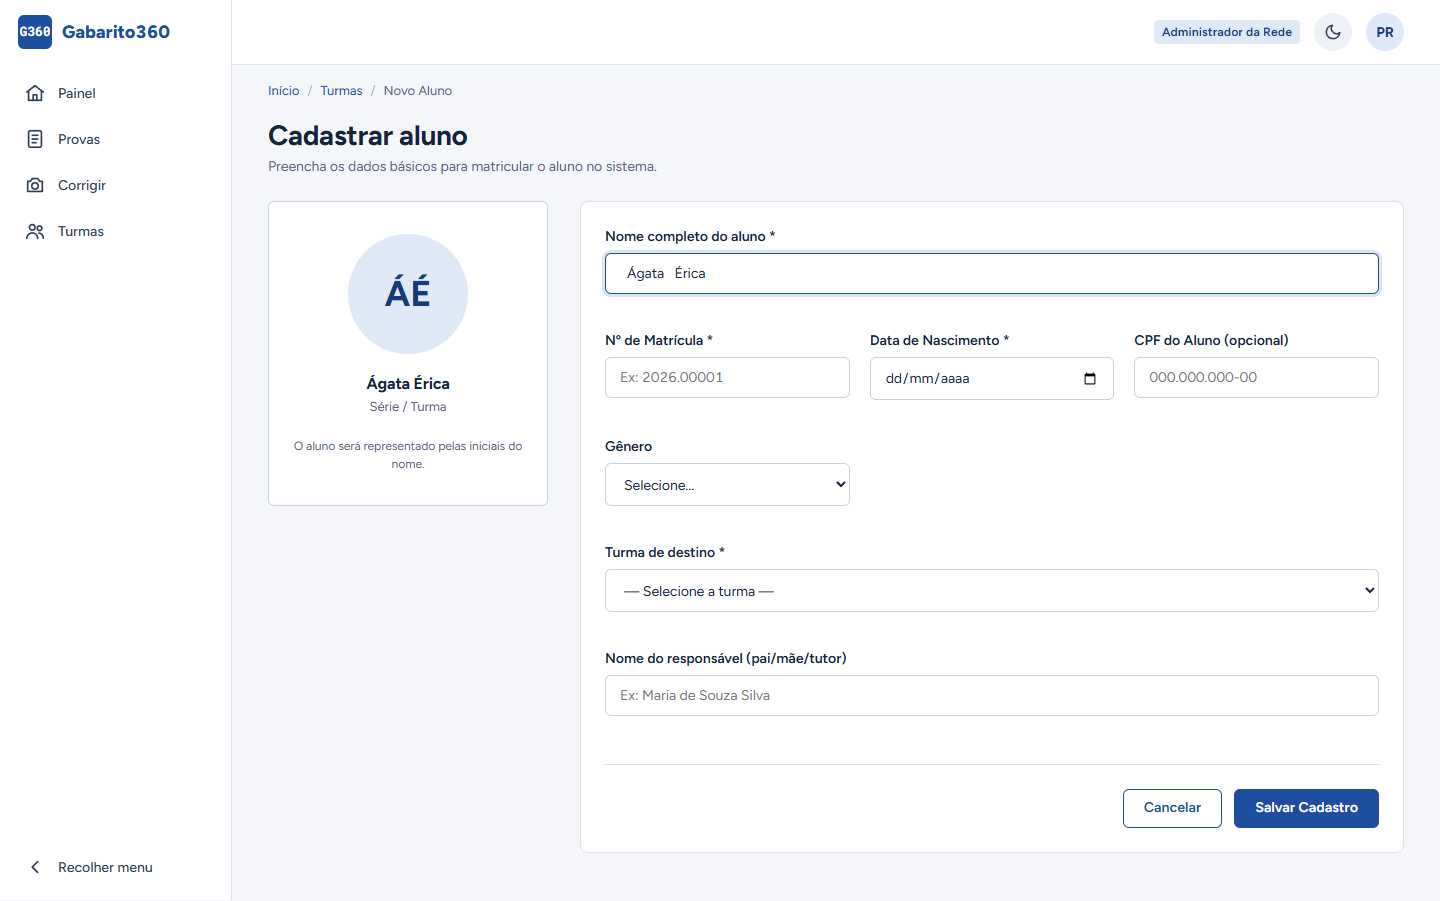
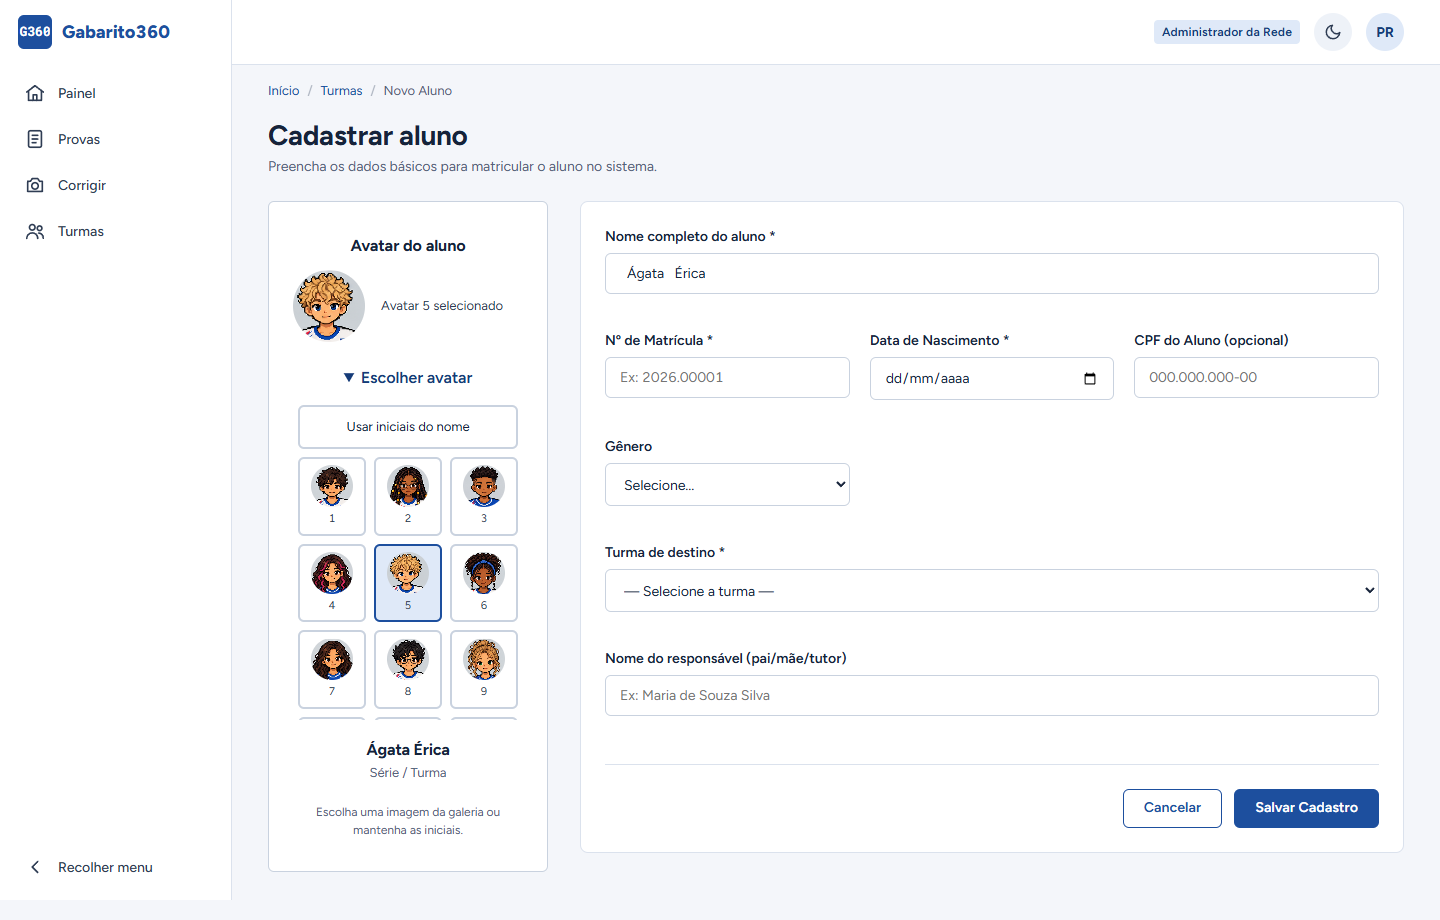
feat: permite escolher entre 36 avatares de alunos

diff --git a/apps/web/public/css/app.css b/apps/web/public/css/app.css
@@ -1227,3 +1227,19 @@ html[data-theme="dark"] .user-menu-links hr { border-top-color: var(--border); }
 .avatar-aluno--verde { background:var(--atencao-light);color:var(--atencao); }
 .avatar-aluno--roxo { background:var(--purple-light);color:var(--purple-fg); }
 .avatar-aluno--neutro { background:var(--surface-2);color:var(--fg-2); }
+
+/* Galeria de personagens aprovada: catálogo fixo, sem upload. */
+.avatar-aluno--imagem { background-image:url('../images/avatares/estudantes-v1.png'); background-size:650% 650%; background-position:calc(0.76% + var(--avatar-x) * 0.9848) calc(0.76% + var(--avatar-y) * 0.9848); image-rendering:pixelated; overflow:hidden; }
+.avatar-aluno--imagem .avatar-iniciais { visibility:hidden; }
+.seletor-avatar { border:0; padding:0; margin:0 0 20px; min-width:0; }
+.seletor-avatar legend { font-weight:700; margin-bottom:12px; }
+.seletor-avatar-atual { display:flex; align-items:center; gap:16px; margin-bottom:14px; text-align:left; }
+.seletor-avatar-atual [data-avatar-status] { font-size:13px; color:var(--fg-2); }
+.seletor-avatar summary { cursor:pointer; color:var(--accent-dark); font-weight:600; padding:10px 0; }
+.avatar-opcoes { display:grid; grid-template-columns:repeat(auto-fit,minmax(60px,1fr)); gap:8px; max-height:320px; overflow-y:auto; padding:5px; }
+.avatar-opcao { position:relative; display:flex; flex-direction:column; align-items:center; justify-content:center; gap:4px; min-height:64px; border:2px solid var(--border); border-radius:var(--radius-md); padding:6px; cursor:pointer; background:var(--surface); color:var(--fg); }
+.avatar-opcao input { position:absolute; width:1px; height:1px; opacity:0; }
+.avatar-opcao:has(input:checked) { border-color:var(--accent); background:var(--accent-light); }
+.avatar-opcao:has(input:focus-visible) { outline:3px solid var(--accent); outline-offset:2px; }
+.avatar-opcao-iniciais { grid-column:1/-1; min-height:44px; font-size:13px; }
+.avatar-numero { font-size:11px; color:var(--fg-2); }

diff --git a/apps/web/public/js/app.js b/apps/web/public/js/app.js
@@ -235,3 +235,24 @@ document.addEventListener('DOMContentLoaded', function () {
   // Quadros dentro de <details> só têm largura quando abertos
   document.querySelectorAll('details').forEach(function (d) { d.addEventListener('toggle', marcarQuadros); });
 });
+
+
+// A seleção só persiste quando o formulário do aluno é salvo.
+document.querySelectorAll('[data-seletor-avatar]').forEach(function (seletor) {
+  var preview = seletor.querySelector('[data-avatar-preview]');
+  var nome = document.getElementById(seletor.dataset.campoNome);
+  function atualizarAvatar() {
+    var selecionado = seletor.querySelector('input[name="avatar_id"]:checked');
+    var id = Number(selecionado ? selecionado.value : 0);
+    var imagem = Number.isInteger(id) && id >= 1 && id <= 36;
+    preview.classList.toggle('avatar-aluno--imagem', imagem);
+    preview.style.setProperty('--avatar-x', ((id - 1) % 6) * 20 + '%');
+    preview.style.setProperty('--avatar-y', Math.floor((id - 1) / 6) * 20 + '%');
+    var partes = (nome ? nome.value : '').trim().split(/\s+/u).filter(Boolean);
+    preview.querySelector('.avatar-iniciais').textContent = partes.slice(0, 2).map(function (p) { return Array.from(p)[0].toLocaleUpperCase('pt-BR'); }).join('') || '?';
+    seletor.querySelector('[data-avatar-status]').textContent = imagem ? 'Avatar ' + id + ' selecionado' : 'Iniciais do nome';
+  }
+  seletor.addEventListener('change', atualizarAvatar);
+  if (nome) nome.addEventListener('input', atualizarAvatar);
+  atualizarAvatar();
+});

diff --git a/apps/api/app/Http/Controllers/Api/DashboardController.php b/apps/api/app/Http/Controllers/Api/DashboardController.php
@@ -39,7 +39,7 @@ class DashboardController extends Controller
             ->join('turmas', 'alunos.turma_id', '=', 'turmas.id')
             ->join('escolas', 'turmas.escola_id', '=', 'escolas.id')
             ->where('alunos.id', $alunoId)
-            ->select('alunos.id', 'alunos.nome', 'turmas.nome as turma', 'turmas.id as turma_id', 'escolas.nome as escola')
+            ->select('alunos.id', 'alunos.nome', 'alunos.avatar_id', 'turmas.nome as turma', 'turmas.id as turma_id', 'escolas.nome as escola')
             ->first();
 
         if (!$aluno) {
@@ -212,8 +212,8 @@ class DashboardController extends Controller
             ->join('alunos', 'notas.aluno_id', '=', 'alunos.id')
             ->join('turmas', 'notas.turma_id', '=', 'turmas.id')
             ->whereIn('notas.turma_id', $turmaIds)
-            ->select('alunos.id', 'alunos.nome', 'turmas.nome as turma', DB::raw('ROUND(AVG(notas.nota_final),1) as media'))
-            ->groupBy('alunos.id', 'alunos.nome', 'turmas.nome')
+            ->select('alunos.id', 'alunos.nome', 'alunos.avatar_id', 'turmas.nome as turma', DB::raw('ROUND(AVG(notas.nota_final),1) as media'))
+            ->groupBy('alunos.id', 'alunos.nome', 'alunos.avatar_id', 'turmas.nome')
             ->orderByDesc('media')
             ->limit(5)
             ->get();
@@ -222,8 +222,8 @@ class DashboardController extends Controller
             ->join('alunos', 'notas.aluno_id', '=', 'alunos.id')
             ->join('turmas', 'notas.turma_id', '=', 'turmas.id')
             ->whereIn('notas.turma_id', $turmaIds)
-            ->select('alunos.id', 'alunos.nome', 'turmas.nome as turma', DB::raw('ROUND(AVG(notas.nota_final),1) as media'))
-            ->groupBy('alunos.id', 'alunos.nome', 'turmas.nome')
+            ->select('alunos.id', 'alunos.nome', 'alunos.avatar_id', 'turmas.nome as turma', DB::raw('ROUND(AVG(notas.nota_final),1) as media'))
+            ->groupBy('alunos.id', 'alunos.nome', 'alunos.avatar_id', 'turmas.nome')
             ->orderBy('media')
             ->limit(3)
             ->get();
@@ -233,8 +233,8 @@ class DashboardController extends Controller
             ->join('alunos', 'notas.aluno_id', '=', 'alunos.id')
             ->join('turmas', 'notas.turma_id', '=', 'turmas.id')
             ->whereIn('notas.turma_id', $turmaIds)
-            ->select('alunos.id', 'alunos.nome', 'turmas.nome as turma', DB::raw('ROUND(AVG(notas.nota_final),1) as media'))
-            ->groupBy('alunos.id', 'alunos.nome', 'turmas.nome')
+            ->select('alunos.id', 'alunos.nome', 'alunos.avatar_id', 'turmas.nome as turma', DB::raw('ROUND(AVG(notas.nota_final),1) as media'))
+            ->groupBy('alunos.id', 'alunos.nome', 'alunos.avatar_id', 'turmas.nome')
             ->havingRaw('AVG(notas.nota_final) < 6')
             ->orderBy('media')
             ->limit(3)
@@ -378,11 +378,12 @@ class DashboardController extends Controller
             ->select(
                 'alunos.id',
                 'alunos.nome',
+                'alunos.avatar_id',
                 'turmas.nome as turma',
                 'provas.disciplina',
                 DB::raw('ROUND(AVG(notas.nota_final), 1) as media')
             )
-            ->groupBy('alunos.id', 'alunos.nome', 'turmas.nome', 'provas.disciplina')
+            ->groupBy('alunos.id', 'alunos.nome', 'alunos.avatar_id', 'turmas.nome', 'provas.disciplina')
             ->havingRaw('AVG(notas.nota_final) < 6')
             ->orderBy('media')
             ->limit(5)

diff --git a/apps/web/tests/Feature/AlunosAvatarTest.php b/apps/web/tests/Feature/AlunosAvatarTest.php
@@ -43,4 +43,40 @@ class AlunosAvatarTest extends TestCase
             ->assertSee('id="preview-avatar"',false)->assertDontSee('type="file"',false)
             ->assertDontSee('multipart/form-data',false);
     }
+
+    public function test_galeria_tem_36_opcoes_e_recupera_selecao_apos_erro(): void
+    {
+        Http::preventStrayRequests();
+        Http::fake(['*'=>Http::response(['data'=>['turmas'=>[]]])]);
+        $html=$this->withSession(['auth_token'=>'ficticio','_old_input'=>['avatar_id'=>36]])
+            ->get('/alunos/novo')->assertOk()->getContent();
+        $this->assertSame(37,substr_count($html,'type="radio"'));
+        $this->assertStringContainsString('value="36" aria-label="Avatar 36" checked',$html);
+        $this->assertStringContainsString('Usar iniciais do nome',$html);
+        $this->assertStringNotContainsString('type="file"',$html);
+        $this->assertStringContainsString('avatar-aluno--imagem',Blade::render('<x-avatar :avatar-id="36" />'));
+        $this->assertStringNotContainsString('avatar-aluno--imagem',Blade::render('<x-avatar :avatar-id="37" />'));
+    }
+
+    public function test_web_encaminha_selecao_e_retorno_as_iniciais(): void
+    {
+        config(['services.api.base_url'=>'http://api.test/api']);
+        Http::preventStrayRequests();
+        Http::fake(['*'=>Http::response(['data'=>['id'=>7]],200)]);
+        $this->withSession(['auth_token'=>'ficticio']);
+        $dados=['nome'=>'Aluno fictício','matricula'=>'FICTICIO-7','turma_id'=>1,'data_nascimento'=>'2010-01-01'];
+        $this->post('/alunos',$dados+['avatar_id'=>'36'])->assertRedirect();
+        Http::assertSent(fn($r)=>$r->method()==='POST' && $r['avatar_id']==='36');
+        $this->put('/alunos/7',$dados+['avatar_id'=>''])->assertRedirect();
+        Http::assertSent(fn($r)=>$r->method()==='PUT' && array_key_exists('avatar_id',$r->data()) && $r['avatar_id']===null);
+    }
+
+    public function test_web_rejeita_avatar_fora_do_catalogo(): void
+    {
+        Http::preventStrayRequests();
+        $this->withSession(['auth_token'=>'ficticio'])->put('/alunos/7',[
+            'nome'=>'Aluno fictício','matricula'=>'FICTICIO-7','avatar_id'=>37,
+        ])->assertSessionHasErrors('avatar_id');
+        Http::assertNothingSent();
+    }
 }

diff --git a/apps/api/tests/Feature/AlunosAvatarTest.php b/apps/api/tests/Feature/AlunosAvatarTest.php
@@ -63,4 +63,28 @@ class AlunosAvatarTest extends TestCase
         $this->assertDatabaseCount('alunos',1);
         $this->assertNull(Aluno::sole()->foto_path);
     }
+
+    public function test_selecao_persiste_nas_listas_e_permite_voltar_as_iniciais(): void
+    {
+        $res=$this->postJson('/api/v1/alunos',$this->dados+['avatar_id'=>36])->assertCreated()->assertJsonPath('data.avatar_id',36);
+        $id=$res->json('data.id');
+        $this->getJson('/api/v1/alunos/'.$id)->assertOk()->assertJsonPath('data.avatar_id',36);
+        $this->getJson('/api/v1/alunos')->assertOk()->assertJsonPath('data.alunos.0.avatar_id',36);
+        $this->getJson('/api/v1/turmas/'.$this->dados['turma_id'])->assertOk()->assertJsonPath('data.alunos.0.avatar_id',36);
+        $this->putJson('/api/v1/alunos/'.$id,['nome'=>'Novo nome fictício'])->assertOk()->assertJsonPath('data.avatar_id',36);
+        $this->putJson('/api/v1/alunos/'.$id,['avatar_id'=>1])->assertOk()->assertJsonPath('data.avatar_id',1);
+        $this->putJson('/api/v1/alunos/'.$id,['avatar_id'=>null])->assertOk()->assertJsonPath('data.avatar_id',null);
+        $this->assertNull(Aluno::find($id)->avatar_id);
+    }
+
+    public function test_apenas_identificadores_do_catalogo_sao_aceitos(): void
+    {
+        $aluno=Aluno::create($this->dados+['avatar_id'=>7]);
+        foreach([0,37,-1,1.5,'https://example.test/foto.png','../foto', ['id'=>1]] as $valor) {
+            $this->putJson('/api/v1/alunos/'.$aluno->id,['avatar_id'=>$valor])->assertUnprocessable()->assertJsonValidationErrors('avatar_id');
+            $this->postJson('/api/v1/alunos',array_merge($this->dados,['matricula'=>'OUTRA','avatar_id'=>$valor]))->assertUnprocessable()->assertJsonValidationErrors('avatar_id');
+        }
+        $this->assertSame(7,$aluno->fresh()->avatar_id);
+        $this->assertDatabaseCount('alunos',1);
+    }
 }

diff --git a/apps/web/resources/views/alunos/show.blade.php b/apps/web/resources/views/alunos/show.blade.php
@@ -20,7 +20,7 @@
 
 {{-- Header do perfil --}}
 <div class="profile-header">
-  <x-avatar :nome="$aluno['nome']" :aluno-id="$aluno['id']" tamanho="lg" />
+  <x-avatar :avatar-id="$aluno['avatar_id'] ?? null" :nome="$aluno['nome']" :aluno-id="$aluno['id']" tamanho="lg" />
   <div style="flex:1;">
     <h1 class="page-title" style="margin:0;">{{ $aluno['nome'] }}</h1>
     <p class="page-sub">
@@ -99,10 +99,11 @@
       @csrf
       @method('PUT')
       <div class="modal-body">
+        <x-seletor-avatar :nome="old('nome', $aluno['nome'])" :aluno-id="$aluno['id']" :avatar-id="$aluno['avatar_id'] ?? null" campo-nome="ed-nome" preview-id="editar-avatar-preview" />
         <div class="form-row-2">
           <div class="field" style="grid-column:1/-1">
             <label for="ed-nome">Nome completo *</label>
-            <input class="input" type="text" id="ed-nome" name="nome" required value="{{ $aluno['nome'] }}" />
+            <input class="input" type="text" id="ed-nome" name="nome" required value="{{ old('nome', $aluno['nome']) }}" />
           </div>
           <div class="field">
             <label for="ed-matricula">Matrícula *</label>
@@ -157,6 +158,7 @@
 var modal = document.getElementById('modal-editar');
 function abrirModal() { modal.classList.add('open'); modal.setAttribute('aria-hidden','false'); document.body.style.overflow='hidden'; }
 function fecharModal() { modal.classList.remove('open'); modal.setAttribute('aria-hidden','true'); document.body.style.overflow=''; }
+@if($errors->any() || session('erro')) abrirModal(); @endif
 modal.addEventListener('click', function(e){ if(e.target===modal) fecharModal(); });
 document.addEventListener('keydown', function(e){ if(e.key==='Escape') fecharModal(); });
 </script>

diff --git a/apps/web/resources/views/components/seletor-avatar.blade.php b/apps/web/resources/views/components/seletor-avatar.blade.php
@@ -1,0 +1,28 @@
+@props(['nome' => '', 'alunoId' => null, 'avatarId' => null, 'campoNome' => 'nome', 'previewId' => 'preview-avatar'])
+@php
+  $selecionado = filter_var(old('avatar_id', $avatarId), FILTER_VALIDATE_INT, ['options' => ['min_range' => 1, 'max_range' => 36]]) ?: null;
+@endphp
+<fieldset class="seletor-avatar" data-seletor-avatar data-campo-nome="{{ $campoNome }}">
+  <legend>Avatar do aluno</legend>
+  <div class="seletor-avatar-atual">
+    <x-avatar :nome="$nome" :aluno-id="$alunoId" :avatar-id="$selecionado" tamanho="lg" :id="$previewId" data-avatar-preview />
+    <span data-avatar-status aria-live="polite">{{ $selecionado ? 'Avatar '.$selecionado.' selecionado' : 'Iniciais do nome' }}</span>
+  </div>
+  <details @if($errors->has('avatar_id')) open @endif>
+    <summary>Escolher avatar</summary>
+    <div class="avatar-opcoes">
+      <label class="avatar-opcao avatar-opcao-iniciais">
+        <input type="radio" name="avatar_id" value="" @checked(!$selecionado)>
+        <span>Usar iniciais do nome</span>
+      </label>
+      @for($i = 1; $i <= 36; $i++)
+        <label class="avatar-opcao">
+          <input type="radio" name="avatar_id" value="{{ $i }}" aria-label="Avatar {{ $i }}" @checked($selecionado === $i)>
+          <x-avatar :avatar-id="$i" />
+          <span class="avatar-numero">{{ $i }}</span>
+        </label>
+      @endfor
+    </div>
+  </details>
+  @error('avatar_id')<span class="field-error">Escolha um dos avatares disponíveis ou use as iniciais.</span>@enderror
+</fieldset>

diff --git a/apps/web/app/Http/Controllers/AlunoController.php b/apps/web/app/Http/Controllers/AlunoController.php
@@ -41,6 +41,7 @@ class AlunoController extends Controller
     public function store(Request $request)
     {
         $request->validate([
+            'avatar_id' => 'sometimes|nullable|integer|between:1,36',
             'turma_id'        => 'required|integer',
             'nome'            => 'required|string|max:200',
             'matricula'       => 'required|string|max:20',
@@ -52,7 +53,7 @@ class AlunoController extends Controller
         ]);
 
         $dados = $request->only(
-            'turma_id','nome','matricula','data_nascimento','genero','nome_responsavel'
+            'avatar_id','turma_id','nome','matricula','data_nascimento','genero','nome_responsavel'
         );
 
         if ($cpf = $request->input('cpf')) {
@@ -90,6 +91,7 @@ class AlunoController extends Controller
     public function update(Request $request, int $id)
     {
         $request->validate([
+            'avatar_id' => 'sometimes|nullable|integer|between:1,36',
             'foto' => 'prohibited',
             'foto_path' => 'prohibited',
             'nome'      => 'required|string|max:200',
@@ -99,7 +101,7 @@ class AlunoController extends Controller
         ]);
 
         $dados = $request->only(
-            'turma_id','nome','matricula','data_nascimento','genero','nome_responsavel'
+            'avatar_id','turma_id','nome','matricula','data_nascimento','genero','nome_responsavel'
         );
 
         if ($cpf = $request->input('cpf')) {

diff --git a/apps/web/resources/views/alunos/create.blade.php b/apps/web/resources/views/alunos/create.blade.php
@@ -35,12 +35,12 @@
 
   {{-- Card lateral de preview --}}
   <aside class="identity-card">
-    <x-avatar :nome="old('nome', '')" tamanho="xl" id="preview-avatar" />
+    <x-seletor-avatar :nome="old('nome', '')" />
     <div style="margin-bottom:20px;">
       <h3 id="preview-nome" style="font-size:16px;font-weight:700;color:var(--fg);margin-bottom:4px;">Novo Aluno</h3>
       <p id="preview-turma" style="font-size:13px;color:var(--muted);">Série / Turma</p>
     </div>
-    <p style="font-size:12px;color:var(--muted);line-height:1.5;">O aluno será representado pelas iniciais do nome.</p>
+    <p style="font-size:12px;color:var(--muted);line-height:1.5;">Escolha uma imagem da galeria ou mantenha as iniciais.</p>
   </aside>
 
   {{-- Formulário principal --}}
@@ -126,7 +126,7 @@ function atualizarPreview() {
     ? nome.trim().split(/\s+/u).filter(Boolean).map(function(p){ return Array.from(p)[0].toLocaleUpperCase('pt-BR'); }).slice(0,2).join('')
     : '?';
 
-  document.getElementById('preview-avatar').textContent = ini;
+  document.querySelector('#preview-avatar .avatar-iniciais').textContent = ini;
   document.getElementById('preview-nome').textContent   = nome || 'Novo Aluno';
   document.getElementById('preview-turma').textContent  = (opt && opt.value) ? opt.dataset.label : 'Série / Turma';
 }

diff --git a/apps/web/resources/views/components/avatar.blade.php b/apps/web/resources/views/components/avatar.blade.php
@@ -1,9 +1,11 @@
-@props(['nome' => '', 'alunoId' => null, 'tamanho' => 'md'])
+@props(['nome' => '', 'alunoId' => null, 'avatarId' => null, 'tamanho' => 'md'])
 @php
   $partes = preg_split('/\s+/u', trim($nome), -1, PREG_SPLIT_NO_EMPTY) ?: [];
   $iniciais = implode('', array_map(fn ($p) => mb_strtoupper(mb_substr($p, 0, 1)), array_slice($partes, 0, 2))) ?: '?';
   $cores = ['azul', 'verde', 'roxo', 'neutro'];
   $cor = $cores[abs((int) $alunoId) % count($cores)];
   $tamanho = in_array($tamanho, ['sm', 'md', 'lg', 'xl'], true) ? $tamanho : 'md';
+  $avatar = filter_var($avatarId, FILTER_VALIDATE_INT, ['options' => ['min_range' => 1, 'max_range' => 36]]) ?: null;
 @endphp
-<span {{ $attributes->class(['avatar-aluno', 'avatar-aluno--'.$cor, 'avatar-aluno--'.$tamanho]) }} aria-hidden="true">{{ $iniciais }}</span>
+<span {{ $attributes->class(['avatar-aluno', 'avatar-aluno--'.$cor, 'avatar-aluno--'.$tamanho, 'avatar-aluno--imagem' => $avatar !== null]) }}
+      @if($avatar) style="--avatar-x:{{ (($avatar - 1) % 6) * 20 }}%;--avatar-y:{{ intdiv($avatar - 1, 6) * 20 }}%" @endif aria-hidden="true"><span class="avatar-iniciais">{{ $iniciais }}</span></span>

diff --git a/apps/api/app/Http/Controllers/Api/AlunoController.php b/apps/api/app/Http/Controllers/Api/AlunoController.php
@@ -88,6 +88,7 @@ class AlunoController extends Controller
     public function store(Request $request): JsonResponse
     {
         $data = $request->validate([
+            'avatar_id' => 'sometimes|nullable|integer|between:1,36',
             'turma_id'        => 'required|integer|exists:turmas,id',
             'nome'            => 'required|string|max:200',
             'matricula'       => 'required|string|max:20|unique:alunos,matricula',
@@ -135,6 +136,7 @@ class AlunoController extends Controller
         }
 
         $data = $request->validate([
+            'avatar_id' => 'sometimes|nullable|integer|between:1,36',
             'turma_id'        => 'sometimes|integer|exists:turmas,id',
             'nome'            => 'sometimes|string|max:200',
             'matricula'       => "sometimes|string|max:20|unique:alunos,matricula,{$id}",

diff --git a/apps/web/resources/views/dashboard/coordenador.blade.php b/apps/web/resources/views/dashboard/coordenador.blade.php
@@ -116,7 +116,7 @@
             $badgeCls = $a['media'] < 5 ? 'badge-danger' : 'badge-warn';
           @endphp
           <li>
-            <x-avatar :nome="$a['nome']" :aluno-id="$a['id'] ?? $a['aluno_id'] ?? null" />
+            <x-avatar :avatar-id="$a['avatar_id'] ?? null" :nome="$a['nome']" :aluno-id="$a['id'] ?? $a['aluno_id'] ?? null" />
             <div class="student-meta">
               <b>{{ $a['nome'] }} · {{ $a['turma'] }}</b>
               <span>{{ $a['disciplina'] }} · média atual</span>
